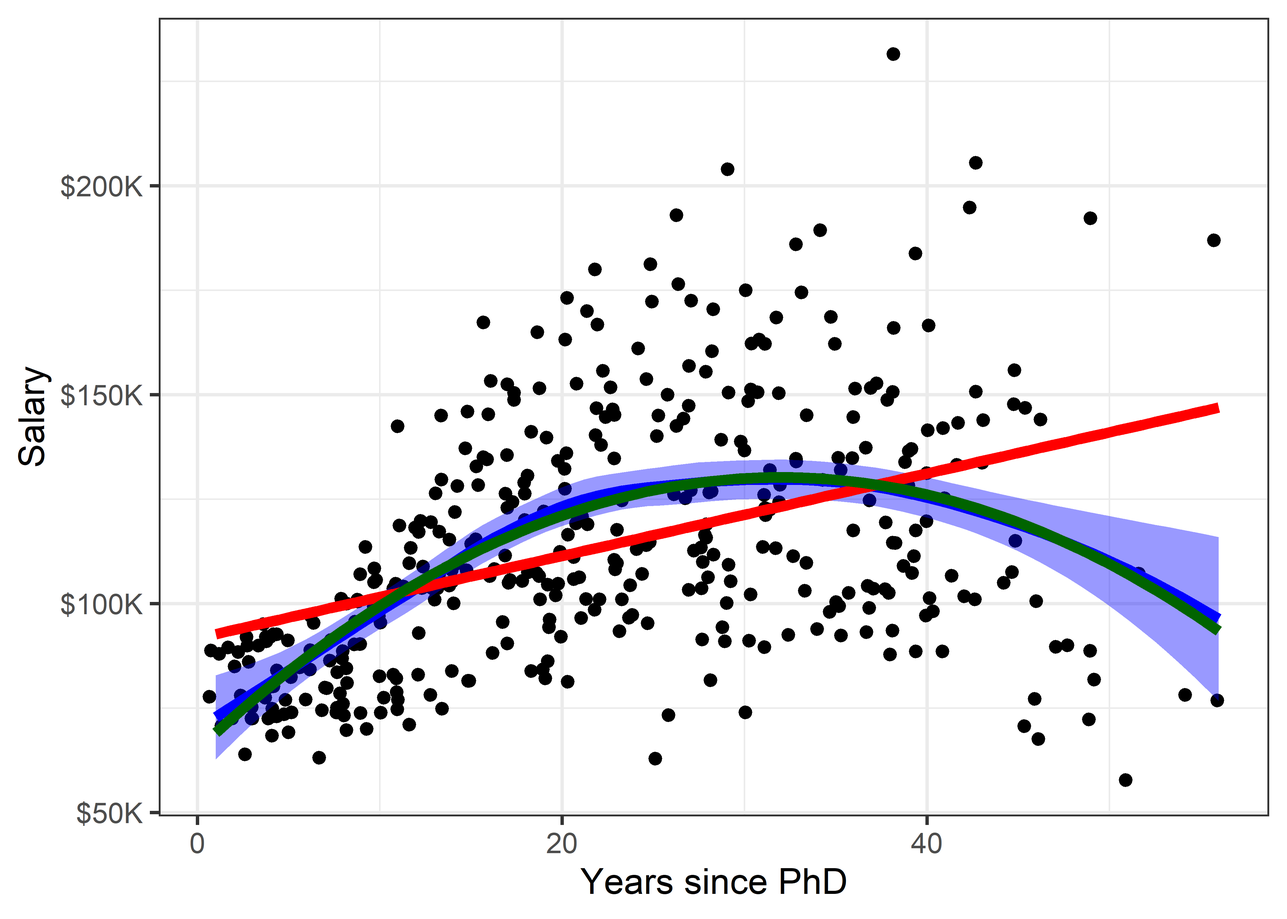
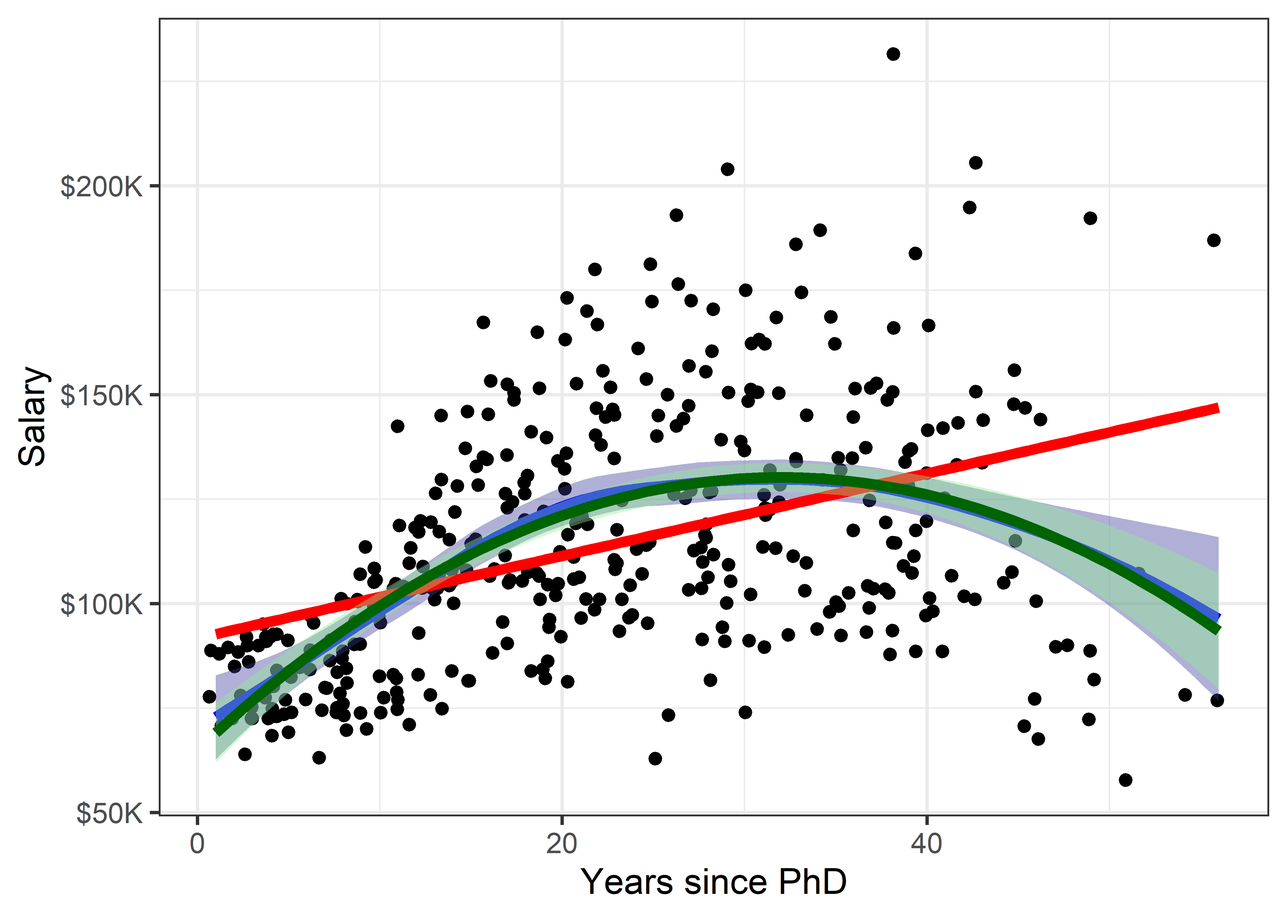
more work on multivariate plots

Changed region(s): [[0.156, 0.496, 0.9669, 0.837]]

diff --git a/_book/multivariate_plots.html b/_book/multivariate_plots.html
@@ -273,7 +273,7 @@ div.csl-indent {
 </header><blockquote class="blockquote">
 <p>There is no excuse for failing to plot and look. — J. W.Tukey (1997), <em>Exploratory Data Analysis</em>, p.&nbsp;157</p>
 </blockquote>
-<p>The quote above from John Tukey reminds us that data analysis should rightly start with graphs to help us understand the main features of our data, to see patterns, trends and anomalies. This chapter introduces a toolbox of basic graphical methods for visualizing multivariate datasets. It starts with some simple techniques to enhance the basic scatterplot with annotations to summarize the relation between two variables. To visualize more than two variables, we can view all pairs of variables in a scatterplot matrix or shift gears entirely to show multiple variables along a set of parallel axes.</p>
+<p>The quote above from John Tukey reminds us that data analysis should rightly start with graphs to help us understand the main features of our data, to see patterns, trends and anomalies. This chapter introduces a toolbox of basic graphical methods for visualizing multivariate datasets. It starts with some simple techniques to enhance the basic scatterplot with annotations such as fitted lines, curves and data ellipses to summarize the relation between two variables. To visualize more than two variables, we can view all pairs of variables in a scatterplot matrix or shift gears entirely to show multiple variables along a set of parallel axes. As the number of variables increase, we may need to suppress details with stronger summaries for a high-level reconnaissance of our data terrain, as we do by zooming out on a map.</p>
 <ul>
 <li>Bivariate summaries
 <ul>
@@ -287,9 +287,10 @@ div.csl-indent {
 <li>parallel coordinate plots</li>
 </ul>
 </li>
-<li>Categorical data:
+<li>
+<del>Categorical data:</del>
 <ul>
-<li>mosaic plots</li>
+<li><del>mosaic plots</del></li>
 </ul>
 </li>
 <li>Generalized pair plots</li>
@@ -299,11 +300,14 @@ div.csl-indent {
 <p>The basic scatterplot is the workhorse of multivariate data visualization, showing how one variable, <span class="math inline">\(y\)</span>, often an outcome to be explained varies with another, <span class="math inline">\(x\)</span>. It is a building block for many useful techniques, so it is helpful to understand how it can be used as a tool for thinking in a wider, multivariate context.</p>
 <p>An essential idea is that we can start with a simple version and add plot annotations to show interesting features more clearly. We consider the following here:</p>
 <ul>
-<li>smoothers: showing some overall trend</li>
-<li>stratifiers: using color, shape or other features to identify subgroups</li>
-<li>data ellipses: a visual summary of linear relations</li>
+<li>
+<strong>smoothers</strong>: showing overall trends, perhaps several, as visual summaries</li>
+<li>
+<strong>stratifiers</strong>: using color, shape or other features to identify subgroups; more generally, <em>conditioning</em> on other variables;</li>
+<li>
+<strong>data ellipses</strong>: a compact visual summary of linear relations and uncertainty.</li>
 </ul>
-<p>Let’s start with data on the nine-month academic salaries of faculty members collected at a U.S. college for the purpose of assessing salary differences between male and female faculty members. The dataset <code><a href="https://rdrr.io/pkg/carData/man/Salaries.html">carData::Salaries</a></code> gives data for 397 faculty members in the 2008-2009 academic year.</p>
+<p>Let’s start with data on the academic salaries of faculty members collected at a U.S. college for the purpose of assessing salary differences between male and female faculty members. The dataset <code><a href="https://rdrr.io/pkg/carData/man/Salaries.html">carData::Salaries</a></code> gives data on nine-month salaries and other variables for 397 faculty members in the 2008-2009 academic year.</p>
 <div class="cell" data-layout-align="center">
 <div class="sourceCode" id="cb1"><pre class="downlit sourceCode r code-with-copy"><code class="sourceCode R"><span><span class="fu"><a href="https://rdrr.io/r/utils/data.html">data</a></span><span class="op">(</span><span class="va">Salaries</span>, package <span class="op">=</span> <span class="st">"carData"</span><span class="op">)</span></span>
 <span><span class="fu"><a href="https://rdrr.io/r/utils/str.html">str</a></span><span class="op">(</span><span class="va">Salaries</span><span class="op">)</span></span>
@@ -337,12 +341,12 @@ div.csl-indent {
 <p>There is quite a lot we can see “just by looking” at this simple plot, but the main things are:</p>
 <ul>
 <li>salary increases generally from 0 - 40 years since the PhD;</li>
-<li>variability in salary increases among those with the same experience, a “fan-shaped” pattern;</li>
+<li>variability in salary increases among those with the same experience, a “fan-shaped” pattern that signals a violation of homogeneity of variance in simple regression;</li>
 <li>data beyond 50 years is thin, but there are some quite low salaries there.</li>
 </ul>
 <section id="smoothers" class="level3" data-number="3.1.1"><h3 data-number="3.1.1" class="anchored" data-anchor-id="smoothers">
 <span class="header-section-number">3.1.1</span> Smoothers</h3>
-<p>Smoothers are among the most useful graphical annotations you can add to such plots, giving a visual summary of how <span class="math inline">\(y\)</span> changes with <span class="math inline">\(x\)</span>. The most common is to add a line showing the linear regression predictor for <span class="math inline">\(y\)</span> given <span class="math inline">\(x\)</span>, expressed in math notation as <span class="math inline">\(\mathbb{E} (y | x) = b_0 + b_1 x\)</span>. If there is doubt that a linear relation is an adequate summary, you can try a quadratic or other polynomial smoother. In <strong>ggplot2</strong>, these are easily added to a plot using <code><a href="https://ggplot2.tidyverse.org/reference/geom_smooth.html">geom_smooth()</a></code> with <code>method = "lm"</code>, and a model <code>formula</code>.</p>
+<p>Smoothers are among the most useful graphical annotations you can add to such plots, giving a visual summary of how <span class="math inline">\(y\)</span> changes with <span class="math inline">\(x\)</span>. The most common is to add a line showing the linear regression predictor for <span class="math inline">\(y\)</span> given <span class="math inline">\(x\)</span>, expressed in math notation as <span class="math inline">\(\mathbb{E} (y | x) = b_0 + b_1 x\)</span>. If there is doubt that a linear relation is an adequate summary, you can try a quadratic or other polynomial smoother. In <strong>ggplot2</strong>, these are easily added to a plot using <code><a href="https://ggplot2.tidyverse.org/reference/geom_smooth.html">geom_smooth()</a></code> with <code>method = "lm"</code>, and a model <code>formula</code>, which is <code>y ~ x</code> for a linear relation or <code>y ~ poly(x, k)</code> for a polynomial of degree <span class="math inline">\(k\)</span>.</p>
 <div class="cell" data-layout-align="center">
 <div class="sourceCode" id="cb3"><pre class="downlit sourceCode r code-with-copy"><code class="sourceCode R"><span><span class="va">gg1</span> <span class="op">+</span> </span>
 <span>  <span class="fu"><a href="https://ggplot2.tidyverse.org/reference/geom_smooth.html">geom_smooth</a></span><span class="op">(</span>method <span class="op">=</span> <span class="st">"lm"</span>, formula <span class="op">=</span> <span class="st">"y ~ x"</span>, </span>
@@ -358,29 +362,68 @@ div.csl-indent {
 </div>
 </div>
 </div>
-<p>This serves to highlight some of our impressions from the basic scatterplot shown in <a href="#fig-Salaries-scat">Figure&nbsp;<span>3.1</span></a>, making them more apparent.</p>
-<p>The most generally useful idea is a smoother that tracks an average value of <span class="math inline">\(y\)</span> as <span class="math inline">\(x\)</span> varies across its’ range, called a “non-parametric” smoother, of which the <code>loess</code> method <span class="citation" data-cites="Cleveland:79">(<a href="references.html#ref-Cleveland:79" role="doc-biblioref"><strong>Cleveland:79?</strong></a>)</span> …</p>
+<p>This serves to highlight some of our impressions from the basic scatterplot shown in <a href="#fig-Salaries-scat">Figure&nbsp;<span>3.1</span></a>, making them more apparent. And that’s precisely the point: The regression smoother draws attention to a possible pattern that we can consider as a visual summary of the data. You can think of this as showing what a linear (or quadratic) regression “sees” in the data. Statistical tests (secref?) can help you decide if there is more evidence for a quadratic fit compared to the simpler linear relation.</p>
+<p>It is useful to also show some indication of <em>uncertainty</em> (or inversely, <em>precision</em>) associated with with the predicted values. Both the linear and quadratic trends are shown in <a href="#fig-Salaries-lm">Figure&nbsp;<span>3.2</span></a> with 95% pointwise confidence bands. These are necessarily narrower in the center of the range of <span class="math inline">\(x\)</span> where there is typically more data; they get wider toward the highest values of experience where the data are thin.</p>
+<section id="non-parametric-smoothers" class="level4 nonumber" data-number="3.1.1.1"><h4 class="nonumber anchored" data-number="3.1.1.1" data-anchor-id="non-parametric-smoothers">
+<span class="header-section-number">3.1.1.1</span> Non-parametric smoothers</h4>
+<p>The most generally useful idea is a smoother that tracks an average value, <span class="math inline">\(\mathbb{E} (y | x)\)</span>, of <span class="math inline">\(y\)</span> as <span class="math inline">\(x\)</span> varies across its’ range without assuming any particular functional form, and so avoiding the necessity to choose among <code>y ~ poly(x, 1)</code>, or <code>y ~ poly(x, 2)</code>, or <code>y ~ poly(x, 3)</code> … Non-parametric smoothers attempt to estimate <span class="math inline">\(\mathbb{E} (y | x) = f(x)\)</span> where <span class="math inline">\(f(x)\)</span> is some smooth function, and typically use a collection of <em>local regressions</em> for each <span class="math inline">\(x_i\)</span> within a window centered at that value</p>
+<p>called a <em>non-parametric</em> smoother, of which the <code>loess</code> method <span class="citation" data-cites="Cleveland:79">(<a href="references.html#ref-Cleveland:79" role="doc-biblioref"><strong>Cleveland:79?</strong></a>)</span> …</p>
+<p><a href="#fig-Salaries-loess">Figure&nbsp;<span>3.3</span></a> shows the addition of a loess smooth to the plot in <a href="#fig-Salaries-lm">Figure&nbsp;<span>3.2</span></a>, suppressing the confidence band for the linear regression. The loess fit is nearly coincident with the quadratic fit, but has a slightly wider confidence band.</p>
 <div class="cell" data-layout-align="center">
 <div class="sourceCode" id="cb4"><pre class="downlit sourceCode r code-with-copy"><code class="sourceCode R"><span><span class="va">gg1</span> <span class="op">+</span> </span>
 <span>  <span class="fu"><a href="https://ggplot2.tidyverse.org/reference/geom_smooth.html">geom_smooth</a></span><span class="op">(</span>method <span class="op">=</span> <span class="st">"loess"</span>, formula <span class="op">=</span> <span class="st">"y ~ x"</span>, </span>
-<span>              color <span class="op">=</span> <span class="st">"blue"</span>, fill <span class="op">=</span> <span class="st">"blue"</span>,</span>
+<span>              color <span class="op">=</span> <span class="st">"blue"</span>, fill <span class="op">=</span> <span class="fu">scales</span><span class="fu">::</span><span class="fu"><a href="https://scales.r-lib.org/reference/muted.html">muted</a></span><span class="op">(</span><span class="st">"blue"</span><span class="op">)</span>,</span>
 <span>              linewidth <span class="op">=</span> <span class="fl">2</span><span class="op">)</span> <span class="op">+</span></span>
 <span>  <span class="fu"><a href="https://ggplot2.tidyverse.org/reference/geom_smooth.html">geom_smooth</a></span><span class="op">(</span>method <span class="op">=</span> <span class="st">"lm"</span>, formula <span class="op">=</span> <span class="st">"y ~ x"</span>, se <span class="op">=</span> <span class="cn">FALSE</span>,</span>
 <span>              color <span class="op">=</span> <span class="st">"red"</span>,</span>
 <span>              linewidth <span class="op">=</span> <span class="fl">2</span><span class="op">)</span> <span class="op">+</span></span>
-<span>  <span class="fu"><a href="https://ggplot2.tidyverse.org/reference/geom_smooth.html">geom_smooth</a></span><span class="op">(</span>method <span class="op">=</span> <span class="st">"lm"</span>, formula <span class="op">=</span> <span class="st">"y ~ poly(x,2)"</span>, se <span class="op">=</span> <span class="cn">FALSE</span>,</span>
-<span>              color <span class="op">=</span> <span class="st">"darkgreen"</span>,</span>
+<span>  <span class="fu"><a href="https://ggplot2.tidyverse.org/reference/geom_smooth.html">geom_smooth</a></span><span class="op">(</span>method <span class="op">=</span> <span class="st">"lm"</span>, formula <span class="op">=</span> <span class="st">"y ~ poly(x,2)"</span>, </span>
+<span>              color <span class="op">=</span> <span class="st">"darkgreen"</span>, fill <span class="op">=</span> <span class="st">"lightgreen"</span>,</span>
 <span>              linewidth <span class="op">=</span> <span class="fl">2</span><span class="op">)</span> </span></code><button title="Copy to Clipboard" class="code-copy-button"><i class="bi"></i></button></pre></div>
 <div class="cell-output-display">
 <div id="fig-Salaries-loess" class="quarto-figure quarto-figure-center anchored">
 <figure class="figure"><p><img src="figs/fig-Salaries-loess-1.png" class="img-fluid figure-img" style="width:80.0%"></p>
-<figcaption class="figure-caption">Figure&nbsp;3.3: Scatterplot of Salary vs.&nbsp;years since PhD, showing the loess smooth.</figcaption></figure>
+<figcaption class="figure-caption">Figure&nbsp;3.3: Scatterplot of Salary vs.&nbsp;years since PhD, adding the loess smooth.</figcaption></figure>
 </div>
 </div>
 </div>
-</section><section id="stratifiers" class="level3" data-number="3.1.2"><h3 data-number="3.1.2" class="anchored" data-anchor-id="stratifiers">
+<p>But now comes an important question: Is it reasonable that academic salary should increase up to about 40 years since the PhD degree and then decline? The predicted salary for someone still working 50 years after earning their degree is about the same as a person at 15 years. What else is going on here?</p>
+</section></section><section id="stratifiers" class="level3" data-number="3.1.2"><h3 data-number="3.1.2" class="anchored" data-anchor-id="stratifiers">
 <span class="header-section-number">3.1.2</span> Stratifiers</h3>
-<p>Often, we have a main relationship of interest, but various groups in the data are identified by factors (like faculty <code>rank</code> and <code>sex</code>, their type of <code>discipline</code>) …</p>
+<p>Very often, we have a main relationship of interest, but various groups in the data are identified by discrete factors (like faculty <code>rank</code> and <code>sex</code>, their type of <code>discipline</code> here), or there are quantitative predictors (<em>moderators</em>) for which the main relation might vary. I call these <em>stratifiers</em>, recognizing that we should consider breaking down the overall relation to see whether and how it changes over such “other” variables. There are two general graphical techniques:</p>
+<ul>
+<li><p><strong>grouping</strong>: Identify subgroups in the data by assigning different visual attributes, such as color, shape, line style, etc. within a single plot. This is quite natural for factors; quantitative predictors can be accommodated by cutting their range into ordered intervals. Grouping has the advantage that the levels of a grouping variable can be shown within the same plot, facilitating direct comparison.</p></li>
+<li><p><strong>conditioning</strong>: Showing subgroups in different plot panels. This has the advantages that relations for the individual groups more easily discerned and one can easily stratify by two (or more) other variables jointly, but visual comparison is more difficult because the eye must scan from one panel to another.</p></li>
+</ul>
+<p><strong>TODO:</strong> Mention development in <code>lattice</code>, plot formulas, <code>y ~ x | g</code>. Describe faceting …</p>
+<p>The most obvious variable that affects academic salary is <code>rank</code>, because faculty typically get an increase in salary with a promotion that carries through in their future salary. What can we see if we group by <code>rank</code> and fit a separate smoothed curve for each?</p>
+<div class="cell" data-layout-align="center">
+<div class="sourceCode" id="cb5"><pre class="downlit sourceCode r code-with-copy"><code class="sourceCode R"><span><span class="co"># short-hand to avoid repeating this</span></span>
+<span><span class="va">scale_salary</span> <span class="op">&lt;-</span>   <span class="fu"><a href="https://ggplot2.tidyverse.org/reference/scale_continuous.html">scale_y_continuous</a></span><span class="op">(</span></span>
+<span>  labels <span class="op">=</span> <span class="fu">scales</span><span class="fu">::</span><span class="fu"><a href="https://scales.r-lib.org/reference/dollar_format.html">dollar_format</a></span><span class="op">(</span>prefix<span class="op">=</span><span class="st">"$"</span>, </span>
+<span>                                 scale <span class="op">=</span> <span class="fl">0.001</span>, </span>
+<span>                                 suffix <span class="op">=</span> <span class="st">"K"</span><span class="op">)</span><span class="op">)</span> </span>
+<span></span>
+<span><span class="fu"><a href="https://ggplot2.tidyverse.org/reference/ggplot.html">ggplot</a></span><span class="op">(</span><span class="va">Salaries</span>, </span>
+<span>             <span class="fu"><a href="https://ggplot2.tidyverse.org/reference/aes.html">aes</a></span><span class="op">(</span>x <span class="op">=</span> <span class="va">yrs.since.phd</span>, y <span class="op">=</span> <span class="va">salary</span>, color <span class="op">=</span> <span class="va">rank</span><span class="op">)</span><span class="op">)</span> <span class="op">+</span></span>
+<span>  <span class="fu"><a href="https://ggplot2.tidyverse.org/reference/geom_point.html">geom_point</a></span><span class="op">(</span><span class="op">)</span> <span class="op">+</span></span>
+<span>  <span class="va">scale_salary</span> <span class="op">+</span></span>
+<span>  <span class="fu"><a href="https://ggplot2.tidyverse.org/reference/labs.html">labs</a></span><span class="op">(</span>x <span class="op">=</span> <span class="st">"Years since PhD"</span>,</span>
+<span>       y <span class="op">=</span> <span class="st">"Salary"</span><span class="op">)</span> <span class="op">+</span></span>
+<span>  <span class="fu"><a href="https://ggplot2.tidyverse.org/reference/geom_smooth.html">geom_smooth</a></span><span class="op">(</span><span class="fu"><a href="https://ggplot2.tidyverse.org/reference/aes.html">aes</a></span><span class="op">(</span>fill <span class="op">=</span> <span class="va">rank</span><span class="op">)</span>,</span>
+<span>                  method <span class="op">=</span> <span class="st">"loess"</span>, formula <span class="op">=</span> <span class="st">"y ~ x"</span>, </span>
+<span>                  linewidth <span class="op">=</span> <span class="fl">2</span><span class="op">)</span> <span class="op">+</span> </span>
+<span>  <span class="fu"><a href="https://ggplot2.tidyverse.org/reference/ggtheme.html">theme_bw</a></span><span class="op">(</span>base_size <span class="op">=</span> <span class="fl">14</span><span class="op">)</span> <span class="op">+</span></span>
+<span>  <span class="fu"><a href="https://ggplot2.tidyverse.org/reference/theme.html">theme</a></span><span class="op">(</span>legend.position <span class="op">=</span> <span class="fu"><a href="https://rdrr.io/r/base/c.html">c</a></span><span class="op">(</span><span class="fl">.1</span>, <span class="fl">0.95</span><span class="op">)</span>, </span>
+<span>        legend.justification <span class="op">=</span> <span class="fu"><a href="https://rdrr.io/r/base/c.html">c</a></span><span class="op">(</span><span class="fl">0</span>, <span class="fl">1</span><span class="op">)</span><span class="op">)</span></span></code><button title="Copy to Clipboard" class="code-copy-button"><i class="bi"></i></button></pre></div>
+<div class="cell-output-display">
+<div id="fig-Salaries-rank" class="quarto-figure quarto-figure-center anchored">
+<figure class="figure"><p><img src="figs/fig-Salaries-rank-1.png" class="img-fluid figure-img" style="width:80.0%"></p>
+<figcaption class="figure-caption">Figure&nbsp;3.4: Scatterplot of Salary vs.&nbsp;years since PhD, grouped by rank.</figcaption></figure>
+</div>
+</div>
+</div>
+<p>Well, there is a different story here. Salaries generally occupy separate levels, increasing with academic rank. The horizontal extents of the smoothed curves show their ranges. Within each rank there is some initial increase after promotion,</p>
 </section><section id="sec-data-ellipse" class="level3" data-number="3.1.3"><h3 data-number="3.1.3" class="anchored" data-anchor-id="sec-data-ellipse">
 <span class="header-section-number">3.1.3</span> The Data Ellipse</h3>
 <p>The <em>data ellipse</em> <span class="citation" data-cites="Monette:90">(<a href="references.html#ref-Monette:90" role="doc-biblioref">Monette 1990</a>)</span>, or <em>concentration ellipse</em> <span class="citation" data-cites="Dempster:69">(<a href="references.html#ref-Dempster:69" role="doc-biblioref">Dempster 1969</a>)</span> is a remarkably simple and effective display for viewing and understanding bivariate relationships in multivariate data. The data ellipse is typically used to add a visual summary to a scatterplot, that shows all together the means, standard deviations, correlation, and slope of the regression line for two variables. Under the classical assumption that the data are bivariate normally distributed, the data ellipse is also a <strong>sufficient</strong> visual summary, in the sense that it captures <strong>all</strong> relevant features of the data. See <span class="citation" data-cites="Friendly-etal:ellipses:2013">Friendly, Monette, and Fox (<a href="references.html#ref-Friendly-etal:ellipses:2013" role="doc-biblioref">2013</a>)</span> for a complete discussion of the role of ellipsoids in statistical data visualization.</p>
@@ -389,11 +432,11 @@ div.csl-indent {
 <div class="cell-output-display">
 <div id="fig-mahalanobis" class="quarto-figure quarto-figure-center anchored">
 <figure class="figure"><p><img src="images/mahalanobis.png" class="img-fluid figure-img" style="width:50.0%"></p>
-<figcaption class="figure-caption">Figure&nbsp;3.4: 2D data with curves of constant distance from the centroid. Which of the points A and B is further from the mean (X)? <em>Source</em>: <a href="https://ouzhang.rbind.io/2020/11/16/outliers-part4/">Ou Zhang</a></figcaption></figure>
+<figcaption class="figure-caption">Figure&nbsp;3.5: 2D data with curves of constant distance from the centroid. Which of the points A and B is further from the mean (X)? <em>Source</em>: <a href="https://ouzhang.rbind.io/2020/11/16/outliers-part4/">Ou Zhang</a></figcaption></figure>
 </div>
 </div>
 </div>
-<p>To illustrate, <a href="#fig-mahalanobis">Figure&nbsp;<span>3.4</span></a> shows a scatterplot with labels for two points, “A” and “B”. Which is further from the mean, “X”? A contour of constant Euclidean distance, shown by the red dashed circle, ignores the apparent negative correlation, so point “A” is further. The blue ellipse for Mahalanobis distance takes the correlation into account, so point “B” has a greater distance from the mean.</p>
+<p>To illustrate, <a href="#fig-mahalanobis">Figure&nbsp;<span>3.5</span></a> shows a scatterplot with labels for two points, “A” and “B”. Which is further from the mean, “X”? A contour of constant Euclidean distance, shown by the red dashed circle, ignores the apparent negative correlation, so point “A” is further. The blue ellipse for Mahalanobis distance takes the correlation into account, so point “B” has a greater distance from the mean.</p>
 <p>Mathematically, Euclidean (squared) distance for <span class="math inline">\(p\)</span> variables, <span class="math inline">\(j = 1, 2, \dots , p\)</span>, is just a generalization of the square of a univariate standardized (<span class="math inline">\(z\)</span>) score, <span class="math inline">\(z^2 = [(y - \bar{y}) / s]^2\)</span>,</p>
 <p><span class="math display">\[
 D_E^2 (\mathbf{y}) = \sum_j^p z_j^2 = \mathbf{z}^T  \mathbf{z} = (\mathbf{y} - \bar{\mathbf{y}})^T \operatorname{diag}(\mathbf{S})^{-1} (\mathbf{y} - \bar{\mathbf{y}}) \; ,
@@ -403,21 +446,21 @@ D_M^2 (\mathbf{y}) = (\mathbf{y} - \bar{\mathbf{y}})^T S^{-1} (\mathbf{y} - \bar
 \]</span> For <span class="math inline">\(p\)</span> variables, the data <em>ellipsoid</em> <span class="math inline">\(\mathcal{E}_c\)</span> of size <span class="math inline">\(c\)</span> is a <span class="math inline">\(p\)</span>-dimensional ellipse, defined as the set of points <span class="math inline">\(\mathbf{y} = (y_1, y_2, \dots y_p)\)</span> whose squared Mahalanobis distance, <span class="math inline">\(D_M^2 ( \mathbf{y} )\)</span> is less than or equal to <span class="math inline">\(c^2\)</span>.</p>
 <p>When <span class="math inline">\(\mathbf{y}\)</span> is (at least approximately) bivariate normal, <span class="math inline">\(D_M^2(\mathbf{y})\)</span> has a large-sample <span class="math inline">\(\chi^2_2\)</span> distribution (<span class="math inline">\(\chi^2\)</span> with 2 df), so taking <span class="math inline">\(c^2 = \chi^2_2 (0.68) = 2.28\)</span> gives a “1 standard deviation bivariate ellipse,” an analog of the standard interval <span class="math inline">\(\bar{y} \pm 1 s\)</span>, while <span class="math inline">\(c^2 = \chi^2_2 (0.95) = 5.99 \approx 6\)</span> gives a data ellipse of 95% coverage.</p>
 <section id="properties" class="level4 unnumbered"><h4 class="unnumbered anchored" data-anchor-id="properties">Properties</h4>
-<p>The essential ideas of correlation and regression and their relation to ellipses go back to <span class="citation" data-cites="Galton:1886">Galton (<a href="references.html#ref-Galton:1886" role="doc-biblioref">1886</a>)</span>. Galton’s goal was to to predict (or explain) how a heritable trait, <span class="math inline">\(Y\)</span>, (e.g., height) of children was related to that of their parents, <span class="math inline">\(X\)</span>. He made a semi-graphic table of the frequencies of 928 observations of the average height of father and mother versus the height of their child, shown in <a href="#fig-galton-corr">Figure&nbsp;<span>3.5</span></a>. He then drew smoothed contour lines of equal frequencies and had the wonderful visual insight that these formed concentric shapes that were tolerably close to ellipses. He then calculated summaries, <span class="math inline">\(\mathrm{Ave}(Y | X)\)</span>, and, for symmetry, <span class="math inline">\(\mathrm{Ave}(X | Y)\)</span>, and plotted these as lines of means on his diagram. Lo and behold, he had a second visual insight: the lines of means of (<span class="math inline">\(Y | X\)</span>) and (<span class="math inline">\(X | Y\)</span>) corresponded approximately to the loci of horizontal and vertical tangents to the concentric ellipses. To complete the picture, he added lines showing the major and minor axes of the family of ellipses, with the result shown in <a href="#fig-galton-corr">Figure&nbsp;<span>3.5</span></a>.</p>
+<p>The essential ideas of correlation and regression and their relation to ellipses go back to <span class="citation" data-cites="Galton:1886">Galton (<a href="references.html#ref-Galton:1886" role="doc-biblioref">1886</a>)</span>. Galton’s goal was to to predict (or explain) how a heritable trait, <span class="math inline">\(Y\)</span>, (e.g., height) of children was related to that of their parents, <span class="math inline">\(X\)</span>. He made a semi-graphic table of the frequencies of 928 observations of the average height of father and mother versus the height of their child, shown in <a href="#fig-galton-corr">Figure&nbsp;<span>3.6</span></a>. He then drew smoothed contour lines of equal frequencies and had the wonderful visual insight that these formed concentric shapes that were tolerably close to ellipses. He then calculated summaries, <span class="math inline">\(\mathrm{Ave}(Y | X)\)</span>, and, for symmetry, <span class="math inline">\(\mathrm{Ave}(X | Y)\)</span>, and plotted these as lines of means on his diagram. Lo and behold, he had a second visual insight: the lines of means of (<span class="math inline">\(Y | X\)</span>) and (<span class="math inline">\(X | Y\)</span>) corresponded approximately to the loci of horizontal and vertical tangents to the concentric ellipses. To complete the picture, he added lines showing the major and minor axes of the family of ellipses, with the result shown in <a href="#fig-galton-corr">Figure&nbsp;<span>3.6</span></a>.</p>
 <div class="cell" data-layout-align="center">
 <div class="cell-output-display">
 <div id="fig-galton-corr" class="quarto-figure quarto-figure-center anchored">
 <figure class="figure"><p><img src="images/galton-corr.jpg" class="img-fluid figure-img" style="width:70.0%"></p>
-<figcaption class="figure-caption">Figure&nbsp;3.5: Galton’s 1886 diagram, showing the relationship of height of children to the average of their parents’ height. The diagram is essentially an overlay of a geometrical interpretation on a bivariate grouped frequency distribution, shown as numbers.</figcaption></figure>
+<figcaption class="figure-caption">Figure&nbsp;3.6: Galton’s 1886 diagram, showing the relationship of height of children to the average of their parents’ height. The diagram is essentially an overlay of a geometrical interpretation on a bivariate grouped frequency distribution, shown as numbers.</figcaption></figure>
 </div>
 </div>
 </div>
-<p>For two variables, <span class="math inline">\(x\)</span> and <span class="math inline">\(y\)</span>, the remarkable properties of the data ellipse are illustrated in <a href="#fig-galton-ellipse-r">Figure&nbsp;<span>3.6</span></a>, a modern reconstruction of Galton’s diagram.</p>
+<p>For two variables, <span class="math inline">\(x\)</span> and <span class="math inline">\(y\)</span>, the remarkable properties of the data ellipse are illustrated in <a href="#fig-galton-ellipse-r">Figure&nbsp;<span>3.7</span></a>, a modern reconstruction of Galton’s diagram.</p>
 <div class="cell" data-layout-align="center">
 <div class="cell-output-display">
 <div id="fig-galton-ellipse-r" class="quarto-figure quarto-figure-center anchored">
 <figure class="figure"><p><img src="images/galton-ellipse-r.jpg" class="img-fluid figure-img" style="width:80.0%"></p>
-<figcaption class="figure-caption">Figure&nbsp;3.6: Sunflower plot of Galton’s data on heights of parents and their children (in.), with 40%, 68% and 95% data ellipses and the regression lines of <span class="math inline">\(y\)</span> on <span class="math inline">\(x\)</span> (black) and <span class="math inline">\(x\)</span> on <span class="math inline">\(y\)</span> (grey).</figcaption></figure>
+<figcaption class="figure-caption">Figure&nbsp;3.7: Sunflower plot of Galton’s data on heights of parents and their children (in.), with 40%, 68% and 95% data ellipses and the regression lines of <span class="math inline">\(y\)</span> on <span class="math inline">\(x\)</span> (black) and <span class="math inline">\(x\)</span> on <span class="math inline">\(y\)</span> (grey).</figcaption></figure>
 </div>
 </div>
 </div>
@@ -429,9 +472,9 @@ D_M^2 (\mathbf{y}) = (\mathbf{y} - \bar{\mathbf{y}})^T S^{-1} (\mathbf{y} - \bar
 <li><p>The correlation <span class="math inline">\(r(x, y)\)</span> is the ratio of the vertical segment from the mean of <span class="math inline">\(y\)</span> to the regression line to the vertical segment going to the top of the ellipse as shown at the right of the figure. It is <span class="math inline">\(r = 0.46\)</span> in this example.</p></li>
 <li><p>The residual standard deviation, <span class="math inline">\(s_e = \sqrt{MSE} = \sqrt{\Sigma (y - \bar{y})^2 / n-2}\)</span>, is the half-length of the ellipse at the mean <span class="math inline">\(\bar{x}\)</span></p></li>
 </ul>
-<p>Because Galton’s values of <code>parent</code> and <code>child</code> height were recorded in class intervals of 1 in., they are shown as sunflower symbols in <a href="#fig-galton-ellipse-r">Figure&nbsp;<span>3.6</span></a>, with multiple ‘petals’ reflecting the number of observations at each location. This plot is constructed using <code><a href="https://rdrr.io/r/graphics/sunflowerplot.html">sunflowerplot()</a></code> and <code><a href="https://rdrr.io/pkg/car/man/Ellipses.html">car::dataEllipse()</a></code> for the ellipses.</p>
+<p>Because Galton’s values of <code>parent</code> and <code>child</code> height were recorded in class intervals of 1 in., they are shown as sunflower symbols in <a href="#fig-galton-ellipse-r">Figure&nbsp;<span>3.7</span></a>, with multiple ‘petals’ reflecting the number of observations at each location. This plot is constructed using <code><a href="https://rdrr.io/r/graphics/sunflowerplot.html">sunflowerplot()</a></code> and <code><a href="https://rdrr.io/pkg/car/man/Ellipses.html">car::dataEllipse()</a></code> for the ellipses.</p>
 <div class="cell" data-layout-align="center">
-<div class="sourceCode" id="cb5"><pre class="downlit sourceCode r code-with-copy"><code class="sourceCode R"><span><span class="fu"><a href="https://rdrr.io/r/utils/data.html">data</a></span><span class="op">(</span><span class="va">Galton</span>, package <span class="op">=</span> <span class="st">"HistData"</span><span class="op">)</span></span>
+<div class="sourceCode" id="cb6"><pre class="downlit sourceCode r code-with-copy"><code class="sourceCode R"><span><span class="fu"><a href="https://rdrr.io/r/utils/data.html">data</a></span><span class="op">(</span><span class="va">Galton</span>, package <span class="op">=</span> <span class="st">"HistData"</span><span class="op">)</span></span>
 <span></span>
 <span><span class="fu"><a href="https://rdrr.io/r/graphics/sunflowerplot.html">sunflowerplot</a></span><span class="op">(</span><span class="va">parent</span> <span class="op">~</span> <span class="va">child</span>, data<span class="op">=</span><span class="va">Galton</span>, </span>
 <span>      xlim<span class="op">=</span><span class="fu"><a href="https://rdrr.io/r/base/c.html">c</a></span><span class="op">(</span><span class="fl">61</span>,<span class="fl">75</span><span class="op">)</span>, </span>

diff --git a/_book/index.html b/_book/index.html
@@ -5,7 +5,7 @@
 <meta name="generator" content="quarto-1.3.450">
 <meta name="viewport" content="width=device-width, initial-scale=1.0, user-scalable=yes">
 <meta name="author" content="Michael Friendly">
-<meta name="dcterms.date" content="2023-10-30">
+<meta name="dcterms.date" content="2023-10-31">
 <title>Visualizing Multivariate Data and Models in R</title>
 <style>
 code{white-space: pre-wrap;}
@@ -280,7 +280,7 @@ div.csl-indent {
     <div>
     <div class="quarto-title-meta-heading">Published</div>
     <div class="quarto-title-meta-contents">
-      <p class="date">October 30, 2023</p>
+      <p class="date">October 31, 2023</p>
     </div>
   </div>
   

diff --git a/working-text/book-outline.md b/working-text/book-outline.md
@@ -34,8 +34,7 @@ This chapter explains why data visualization is essential in statistical analysi
 
 ## Plots of Multivariate Data
 
-This chapter introduces a toolbox of basic graphical methods for visualizing multivariate datasets. It starts with some simple techniques to enhance the basic scatterplot with annotations to
-summarize the relation between two variables. To visualize more than two variables, we can view all pairs of variables in a scatterplot matrix or shift gears entirely to show multiple variables along a set of parallel axes.
+This chapter introduces a toolbox of basic graphical methods for visualizing multivariate datasets. It starts with some simple techniques to enhance the basic scatterplot with annotations such as fitted lines, curves and data ellipses to summarize the relation between two variables. To visualize more than two variables, we can view all pairs of variables in a scatterplot matrix or shift gears entirely to show multiple variables along a set of parallel axes. As the number of variables increase, we may need to suppress details with stronger summaries for a high-level reconnaissance of our data terrain, as we do by zooming out on a map.
 
 - Bivariate summaries:
     - Smoothers
